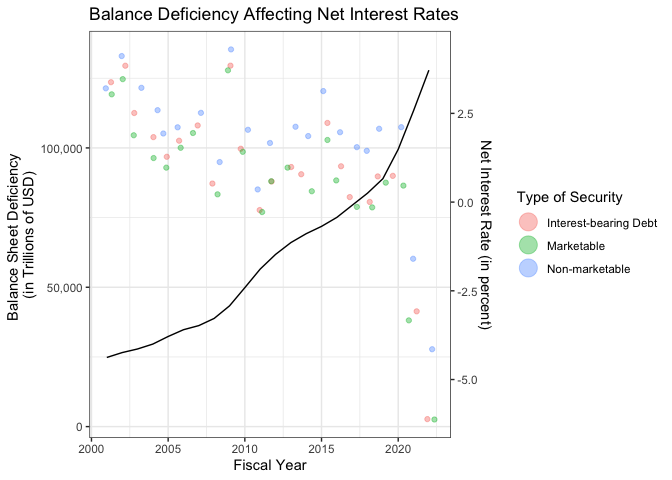
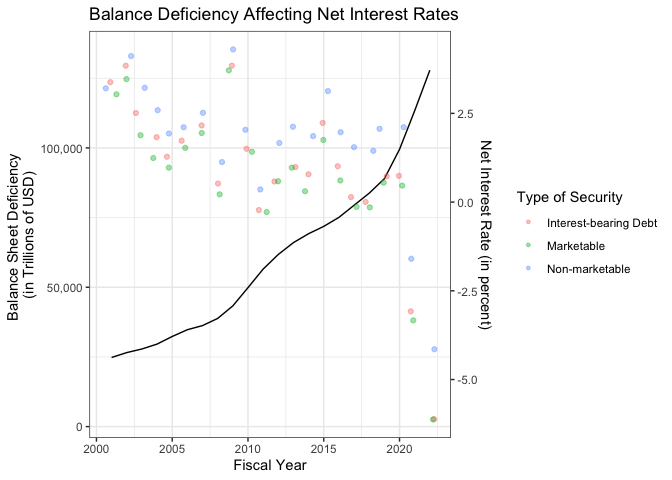
Materials needed for Project 2

diff --git a/README.md b/README.md
@@ -1364,16 +1364,16 @@ deficiencyAndRatesData %>%
     sec.axis = sec_axis(~ (. - a)/b, name="Net Interest Rate (in percent)")
   ) +
   theme(text = element_text(size = 8),
-        axis.text.x = element_text(size = 6),
-        axis.title.x = element_text(size = 6),
-        axis.title.y.left = element_text(size = 6),
-        axis.title.y.right = element_text(size = 6),
-        axis.text.y.left = element_text(size = 6),
-        legend.key.size = element_text(size = 6),
-        legend.text = element_text(size = 6),
-        legend.title = element_text(size = 6),
-        axis.text.y.right = element_text(size = 6)) +
-  guides(color = guide_legend(override.aes = list(size = 6))) +
+        axis.text.x = element_text(size = 3),
+        axis.title.x = element_text(size = 3),
+        axis.title.y.left = element_text(size = 3),
+        axis.title.y.right = element_text(size = 3),
+        axis.text.y.left = element_text(size = 3),
+        legend.key.size = element_text(size = 1),
+        legend.text = element_text(size = 1),
+        legend.title = element_text(size = 1),
+        axis.text.y.right = element_text(size = 3)) +
+  guides(color = guide_legend(override.aes = list(size = 1))) +
   labs(color = "Type of Security",
     title = "Balance Deficiency Affecting Net Interest Rates",
     x = "Fiscal Year") +
@@ -1431,16 +1431,16 @@ p1 <- ggplot(df$`Interest-bearing Debt`, aes(x = record_calendar_year)) +
        title = "Balance Deficiency Affecting Net Interest Rates",
        x = "Fiscal Year") +
   theme(text = element_text(size = 8),
-        axis.text.x = element_text(size = 6),
-        axis.title.x = element_text(size = 6),
-        axis.title.y.left = element_text(size = 6),
-        axis.title.y.right = element_text(size = 6),
-        axis.text.y.left = element_text(size = 6),
-        legend.key.size = element_text(size = 6),
-        legend.text = element_text(size = 6),
-        legend.title = element_text(size = 6),
-        axis.text.y.right = element_text(size = 6)) +
-  guides(color = guide_legend(override.aes = list(size = 6))) +
+        axis.text.x = element_text(size = 3),
+        axis.title.x = element_text(size = 3),
+        axis.title.y.left = element_text(size = 3),
+        axis.title.y.right = element_text(size = 3),
+        axis.text.y.left = element_text(size = 3),
+        legend.key.size = element_text(size = 1),
+        legend.text = element_text(size = 1),
+        legend.title = element_text(size = 1),
+        axis.text.y.right = element_text(size = 3)) +
+  guides(color = guide_legend(override.aes = list(size = 1))) +
   facet_wrap(vars(security_type_desc)) +
   theme_bw()
 
@@ -1492,14 +1492,14 @@ p1 <- ggplot(df$`Interest-bearing Debt`, aes(x = named_month)) +
        x = "Fiscal Year",
        y = "Net Interest Rate \n(in percent)") +
   theme(text = element_text(size = 8),
-        axis.text.x = element_text(size = 6),
-        axis.title.x = element_text(size = 6),
-        axis.title.y = element_text(size = 6),
-        legend.key.size = element_text(size = 6),
-        legend.text = element_text(size = 6),
-        legend.title = element_text(size = 6),
-        axis.text.y = element_text(size = 6)) +
-  guides(color = guide_legend(override.aes = list(size = 6))) +
+        axis.text.x = element_text(size = 3),
+        axis.title.x = element_text(size = 3),
+        axis.title.y = element_text(size = 3),
+        legend.key.size = element_text(size = 1),
+        legend.text = element_text(size = 1),
+        legend.title = element_text(size = 1),
+        axis.text.y = element_text(size = 3)) +
+  guides(color = guide_legend(override.aes = list(size = 1))) +
   facet_wrap(vars(security_type_desc)) +
   theme_bw()
 
@@ -1533,14 +1533,14 @@ interestAndInflationRates %>%
   geom_point(alpha = 0.5, show.legend = FALSE) +
   facet_wrap(vars(security_type_desc), nrow = 3) + 
   theme(text = element_text(size = 8),
-        axis.text.x = element_text(size = 6),
-        axis.title.x = element_text(size = 6),
-        axis.title.y = element_text(size = 6),
-        legend.key.size = element_text(size = 6),
-        legend.text = element_text(size = 6),
-        legend.title = element_text(size = 6),
-        axis.text.y = element_text(size = 6)) +
-  guides(color = guide_legend(override.aes = list(size = 6))) +
+        axis.text.x = element_text(size = 3),
+        axis.title.x = element_text(size = 3),
+        axis.title.y = element_text(size = 3),
+        legend.key.size = element_text(size = 1),
+        legend.text = element_text(size = 1),
+        legend.title = element_text(size = 1),
+        axis.text.y = element_text(size = 3)) +
+  guides(color = guide_legend(override.aes = list(size = 1))) +
   labs(title = 'How the Inflation Rates and Interest Rates were in the Year: {frame_time}', 
        x = 'Inflation Rate \n(in percent)', 
        y = 'Interest Rate Offerred \n(in percent)') +
